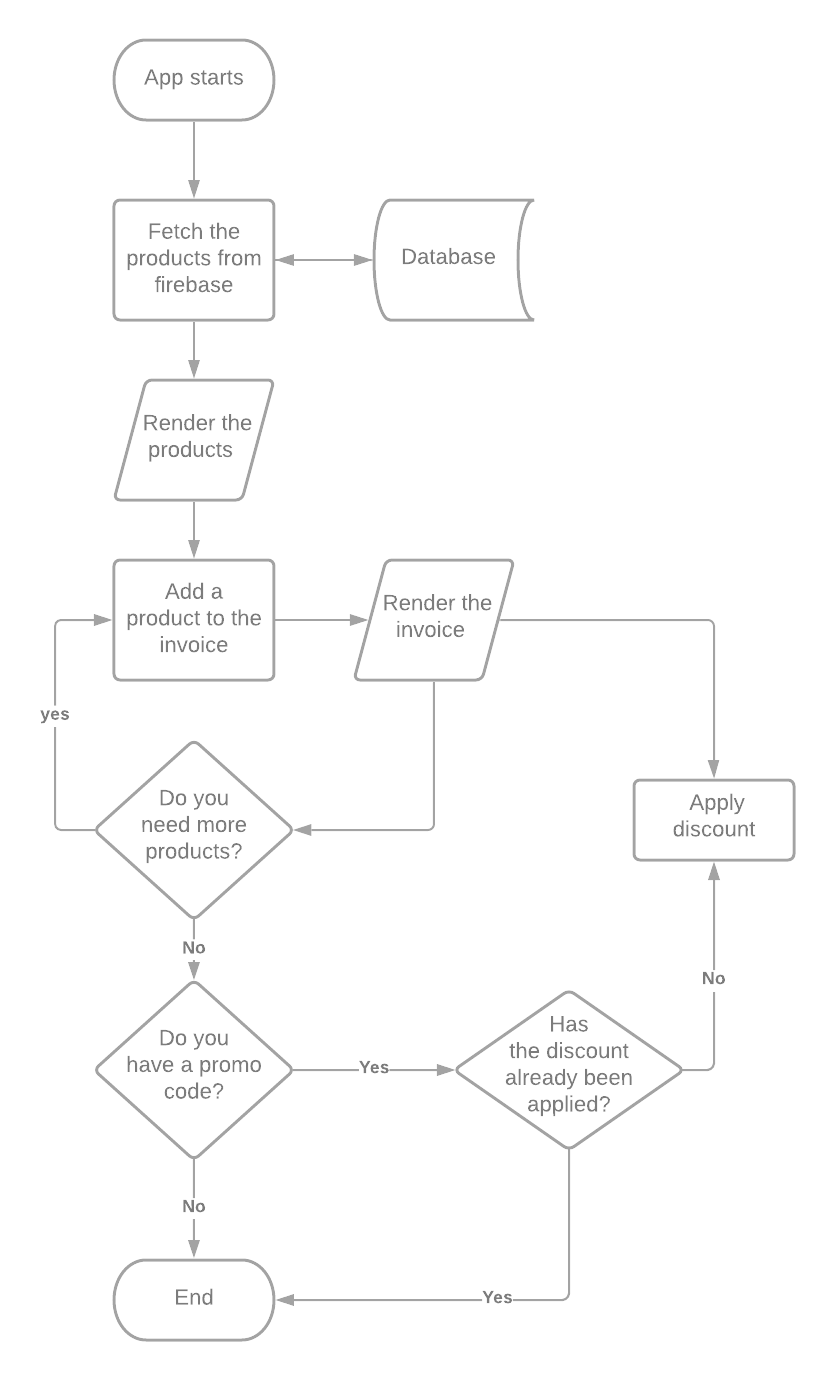
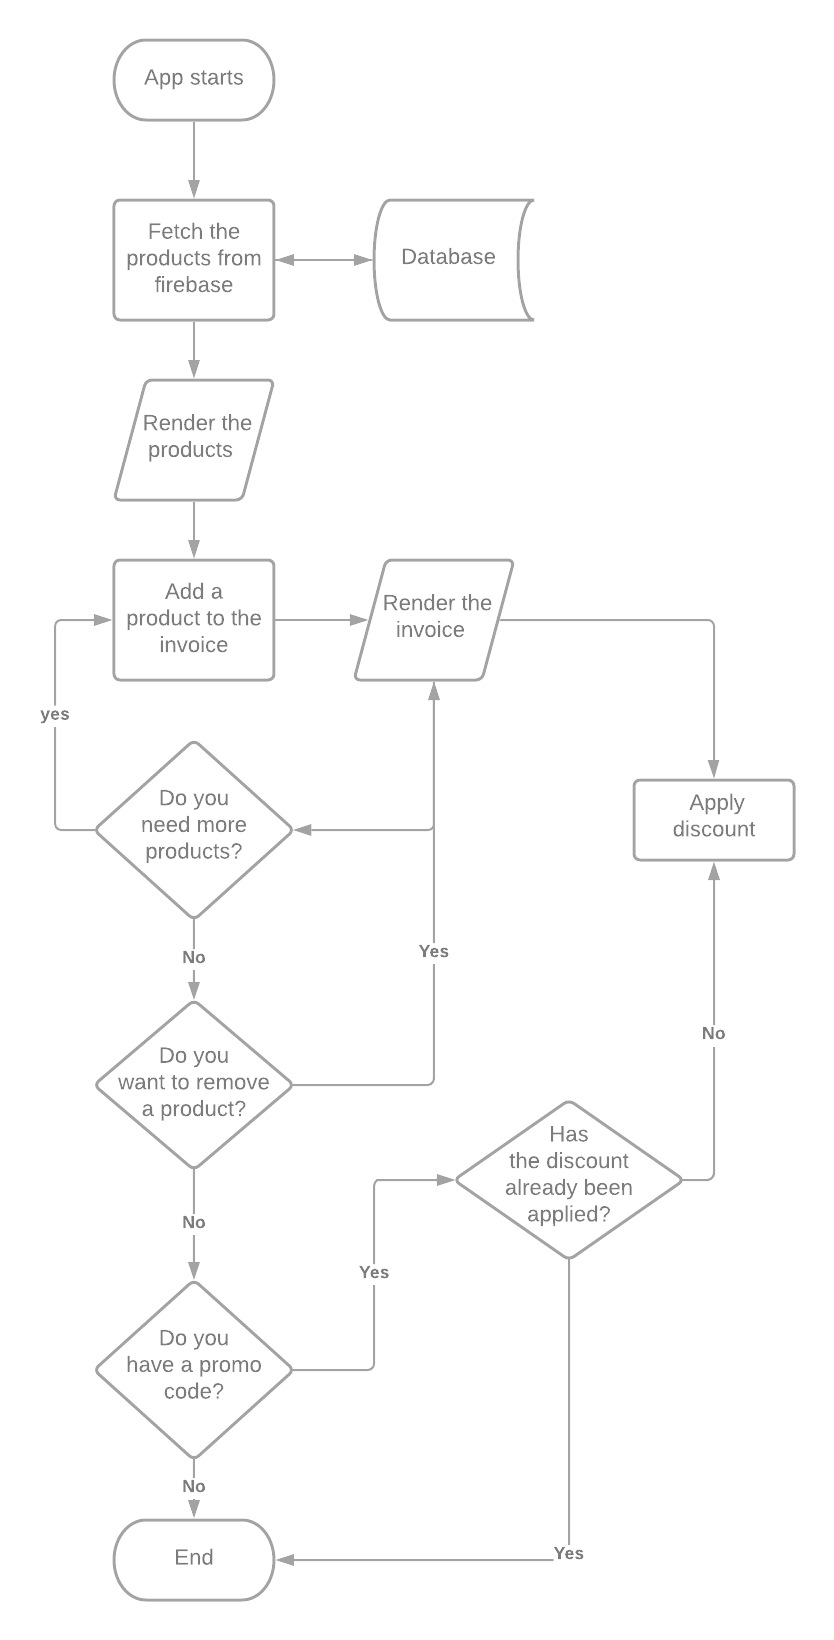
Readme updated

diff --git a/README.md b/README.md
@@ -1,4 +1,4 @@
-#Invoice Generator
+# Invoice Generator
 
 Web application that generates a receipt according to the added products, to which a discount can be applied through a promotional code.
 
@@ -25,15 +25,7 @@ Follow these simple steps to run the project locally:
 3. Start the project:
 `npm run dev`
 
-###FlowChart
+### FlowChart
 
-```flow
-st=>start: App Starts
-op=>operation: Login operation
-cond=>condition: Successful Yes or No?
-e=>end: To admin
+[![](https://github.com/Andres-lh/invoice-generator/blob/main/screenshot/Flowchart.png?raw=true)](https://github.com/Andres-lh/invoice-generator/blob/main/screenshot/flowchart.png?raw=true)
 
-st->op->cond
-cond(yes)->e
-cond(no)->op
-```
